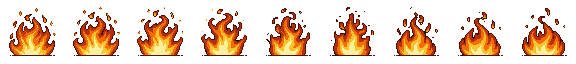
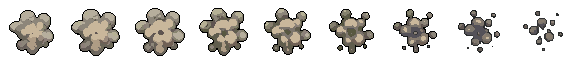
fix(ignarath): dust puff FX no impacto do firebreath no chão
Substitui o FX de impacto do feixe (chama genérica) por nuvem de
poeira/fumaça gerada via PixelLab — 9 frames 64×64 em sprite sheet
horizontal 576×64.

Claude-Session: https://claude.ai/code/session_01Q1oaSApqrZse8T3s52WizJ

diff --git a/export/web/index.html b/export/web/index.html
@@ -111,7 +111,7 @@ body {
 
 		<script src="index.js"></script>
 		<script>
-const GODOT_CONFIG = {"args":[],"canvasResizePolicy":2,"emscriptenPoolSize":8,"ensureCrossOriginIsolationHeaders":true,"executable":"index","experimentalVK":false,"fileSizes":{"index.pck":78011608,"index.wasm":37695054},"focusCanvas":true,"gdextensionLibs":[],"godotPoolSize":4};
+const GODOT_CONFIG = {"args":[],"canvasResizePolicy":2,"emscriptenPoolSize":8,"ensureCrossOriginIsolationHeaders":true,"executable":"index","experimentalVK":false,"fileSizes":{"index.pck":78009656,"index.wasm":37695054},"focusCanvas":true,"gdextensionLibs":[],"godotPoolSize":4};
 const GODOT_THREADS_ENABLED = false;
 const engine = new Engine(GODOT_CONFIG);
 
